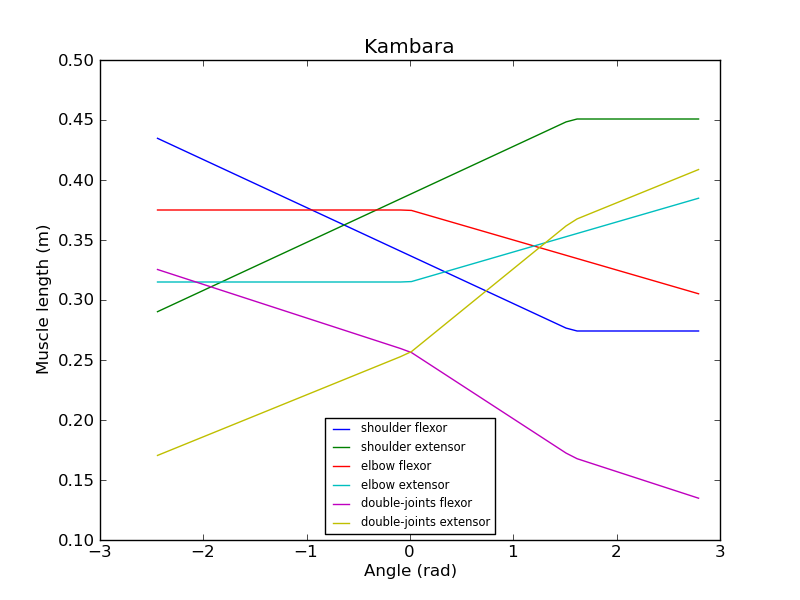
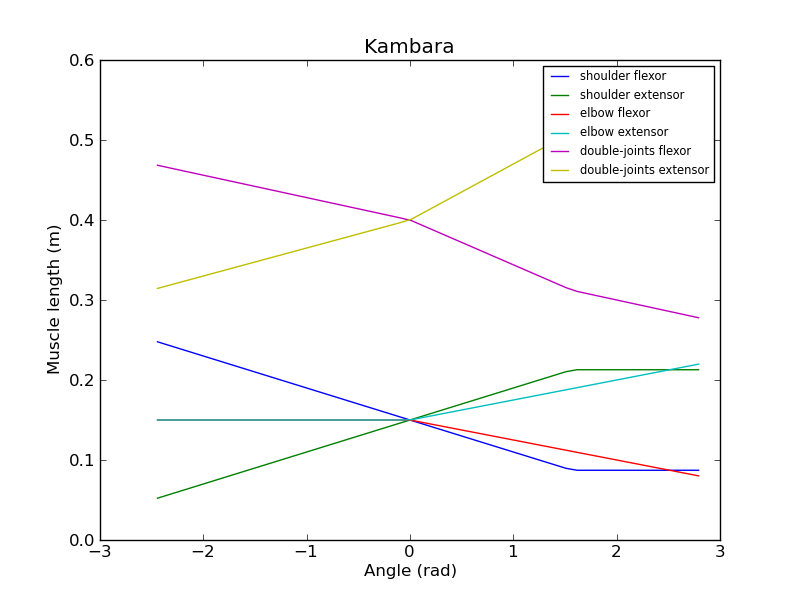
Fix an error on some muscles parameters.

diff --git a/pyarm/model/muscle/mitrovic_muscle_model.py b/pyarm/model/muscle/mitrovic_muscle_model.py
@@ -65,11 +65,8 @@ class MuscleModel:
 
     # Muscle parameters #########################
 
-    # Muscle length when the joint angle = 0 (m)
-    lm0 = np.array([0.337, 0.388, 0.375, 0.315, 0.257, 0.256])
-
-    # Intrinsic rest length (for u = 0) (m)
-    l0rest = np.array([0.26, 0.26, 0.275, 0.275, 0.237, 0.237])
+    # Muscle length when the joint angles = 0 (m) [arbitrary choosen]
+    lm0 = np.array([0.15, 0.15, 0.15, 0.15, 0.4, 0.4])
 
     # Muscle parameters from [6] p.356-357
     k0 = np.ones(6) * 810.8     # Intrinsic elasticity (for u = 0) (N/m)
@@ -77,9 +74,16 @@ class MuscleModel:
     b0 = np.ones(6) * 54.1      # Intrinsic viscosity (for u = 0) (N.s/m)
     b1 = np.ones(6) * 108.1     # Viscosity coefficient (N.s/m)
 
-    # Constant from the muscle model (m) from [6] p.357
-    l1rest = np.array([-0.03491,  0.03491, -0.02182,
-                        0.02182, -0.05498,  0.05498])
+    # lm0 - lr0 (m)
+    diff_lm0_lr0 = np.array([9.076e-2, -2.793e-2, 5.672e-2,
+                             0.436e-2, 14.294e-2, -1.343e-2])
+    
+    # Intrinsic rest length (for u = 0) (m)
+    lr0 = -diff_lm0_lr0 + lm0
+
+    # Variation rate of rest length (m)
+    lr1 = np.array([-0.03491,  0.03491, -0.02182,
+                     0.02182, -0.05498,  0.05498])
 
     # Moment arm (constant matrix) (m) from [6] p.356
     A = np.array([[ 0.04 ,  0.04 ,  0.   ,  0.   ,  0.028,  0.028],
@@ -215,7 +219,7 @@ class MuscleModel:
 
     def rest_length(self, u):
         "Compute muscle rest length (m)."
-        return self.l0rest + self.l1rest * u
+        return self.lr0 + self.lr1 * u
 
     def stretching(self, rest_length, muscle_length):
         "Compute stretching (m)."

diff --git a/pyarm/model/muscle/kambara_muscle_model.py b/pyarm/model/muscle/kambara_muscle_model.py
@@ -30,11 +30,16 @@ class MuscleModel:
 
     # Muscle parameters #########################
 
+    # Muscle length when joint angles = 0 rad (m) [arbitrary choosen]
+    lm0 = np.array([0.15, 0.15, 0.15, 0.15, 0.4, 0.4])
+
+
     # Intrinsic elasticity (for u = 0) (N/m)
     k0 = np.array([1000., 1000., 600., 600., 300., 300.])
 
     # Variation rate of elasticity (N/m)
     k1 = np.array([3000., 2000., 1400., 1200., 600., 600.])
+
 
     # Intrinsic viscosity (for u = 0) (N.s/m)
     b0 = np.ones(6) * 50.
@@ -42,17 +47,17 @@ class MuscleModel:
     # Variation rate of viscosity (N.s/m)
     b1 = np.ones(6) * 100.
 
-    # Intrinsic rest length (for u = 0) (m) TODO : ???
-    l0rest = np.array([0.26, 0.26, 0.275, 0.275, 0.237, 0.237])
 
-    # Rest length (m) # TODO
-    l1rest = np.ones(6) * 0.15
+    # lm0 - lr0 (m)
+    diff_lm0_lr0 = np.array([7.7e-2, 12.8e-2, 10.0e-2,
+                             4.0e-2, 2.0e-2, 1.9e-2])
 
-    # ??? (m) # TODO
-    #ld = np.array([0.077, 0.128, 0.1, 0.04, 0.02, 0.019])
+    # Intrinsic rest length (for u = 0) (m)
+    lr0 = -diff_lm0_lr0 + lm0
 
-    # Intrinsic length (for u = 0) (m) # TODO
-    lm0 = np.array([0.337, 0.388, 0.375, 0.315, 0.257, 0.256])
+    # Variation rate of rest length (m)
+    lr1 = np.ones(6) * 0.15
+
 
     # Moment arm (constant matrix) (m)
     A = np.array([[ 0.04 , -0.04 ,  0.   ,  0.   ,  0.028, -0.035],
@@ -189,7 +194,7 @@ class MuscleModel:
 
     def rest_length(self, u):
         """Muscle rest length (m)."""
-        return self.l0rest - self.l1rest * u
+        return self.lr0 - self.lr1 * u
 
     def stretching(self, rest_length, muscle_length):
         "Compute stretching (m)."

diff --git a/pyarm/model/kinematics/finite_difference_method.py b/pyarm/model/kinematics/finite_difference_method.py
@@ -1,0 +1,20 @@
+# -*- coding: utf-8 -*-
+
+# Copyright (c) 2010 Jérémie DECOCK (http://www.jdhp.org)
+
+import math
+import numpy as np
+
+name = 'Finite difference method'
+
+def forward_kinematics(acceleration, velocity_0, angle_0, delta_time):
+    "Compute the forward kinematics with finite difference method."
+
+    # Angular velocity (rad/s) at time_n+1
+    velocity_1 = velocity_0 + acceleration * delta_time
+
+    # Joint angle (rad) at time_n+1
+    #angle_1 = angle_0 + velocity_0 * delta_time
+    angle_1 = angle_0 + velocity_1 * delta_time
+
+    return velocity_1, angle_1

diff --git a/pyarm/model/dirty_wrapper.py b/pyarm/model/dirty_wrapper.py
@@ -3,7 +3,7 @@
 # Copyright (c) 2010 Jérémie DECOCK (http://www.jdhp.org)
 
 import numpy as np
-from pyarm.model.kinematics import euler as kinematics
+from pyarm.model.kinematics import finite_difference_method as kinematics
 from pyarm.model.arm import mitrovic_arm_model
 
 # Parameters

diff --git a/pyarm/model/arm/abstract_arm_model.py b/pyarm/model/arm/abstract_arm_model.py
@@ -2,7 +2,7 @@
 
 # Copyright (c) 2010 Jérémie DECOCK (http://www.jdhp.org)
 
-from pyarm.model.kinematics import euler as kinematics
+from pyarm.model.kinematics import finite_difference_method as kinematics
 from pyarm import fig
 import math
 import numpy as np

diff --git a/pyarm-test-model.py b/pyarm-test-model.py
@@ -4,7 +4,7 @@
 # Copyright (c) 2010 Jérémie DECOCK (http://www.jdhp.org)
 
 import numpy as np
-from pyarm.model.kinematics import euler as kinematics
+from pyarm.model.kinematics import finite_difference_method as kinematics
 
 DELTA_TIME = 0.01
 
